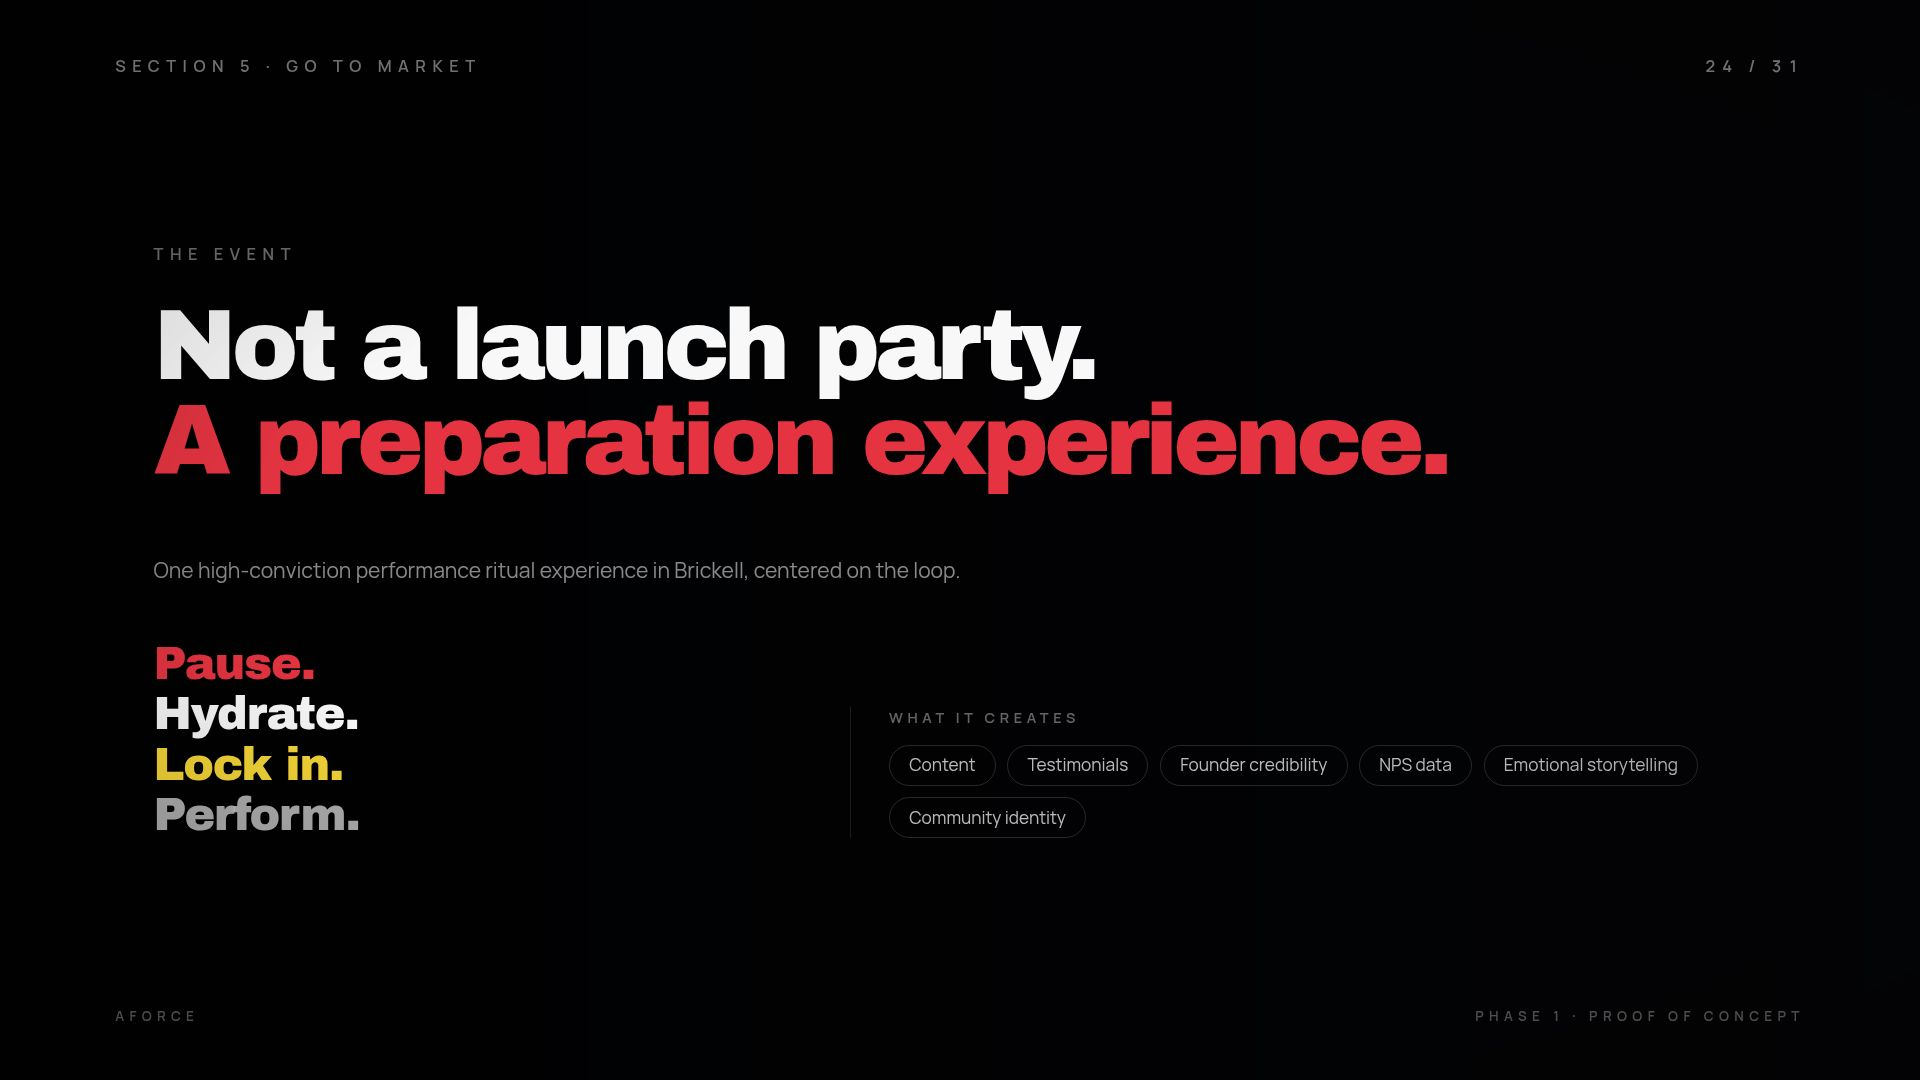
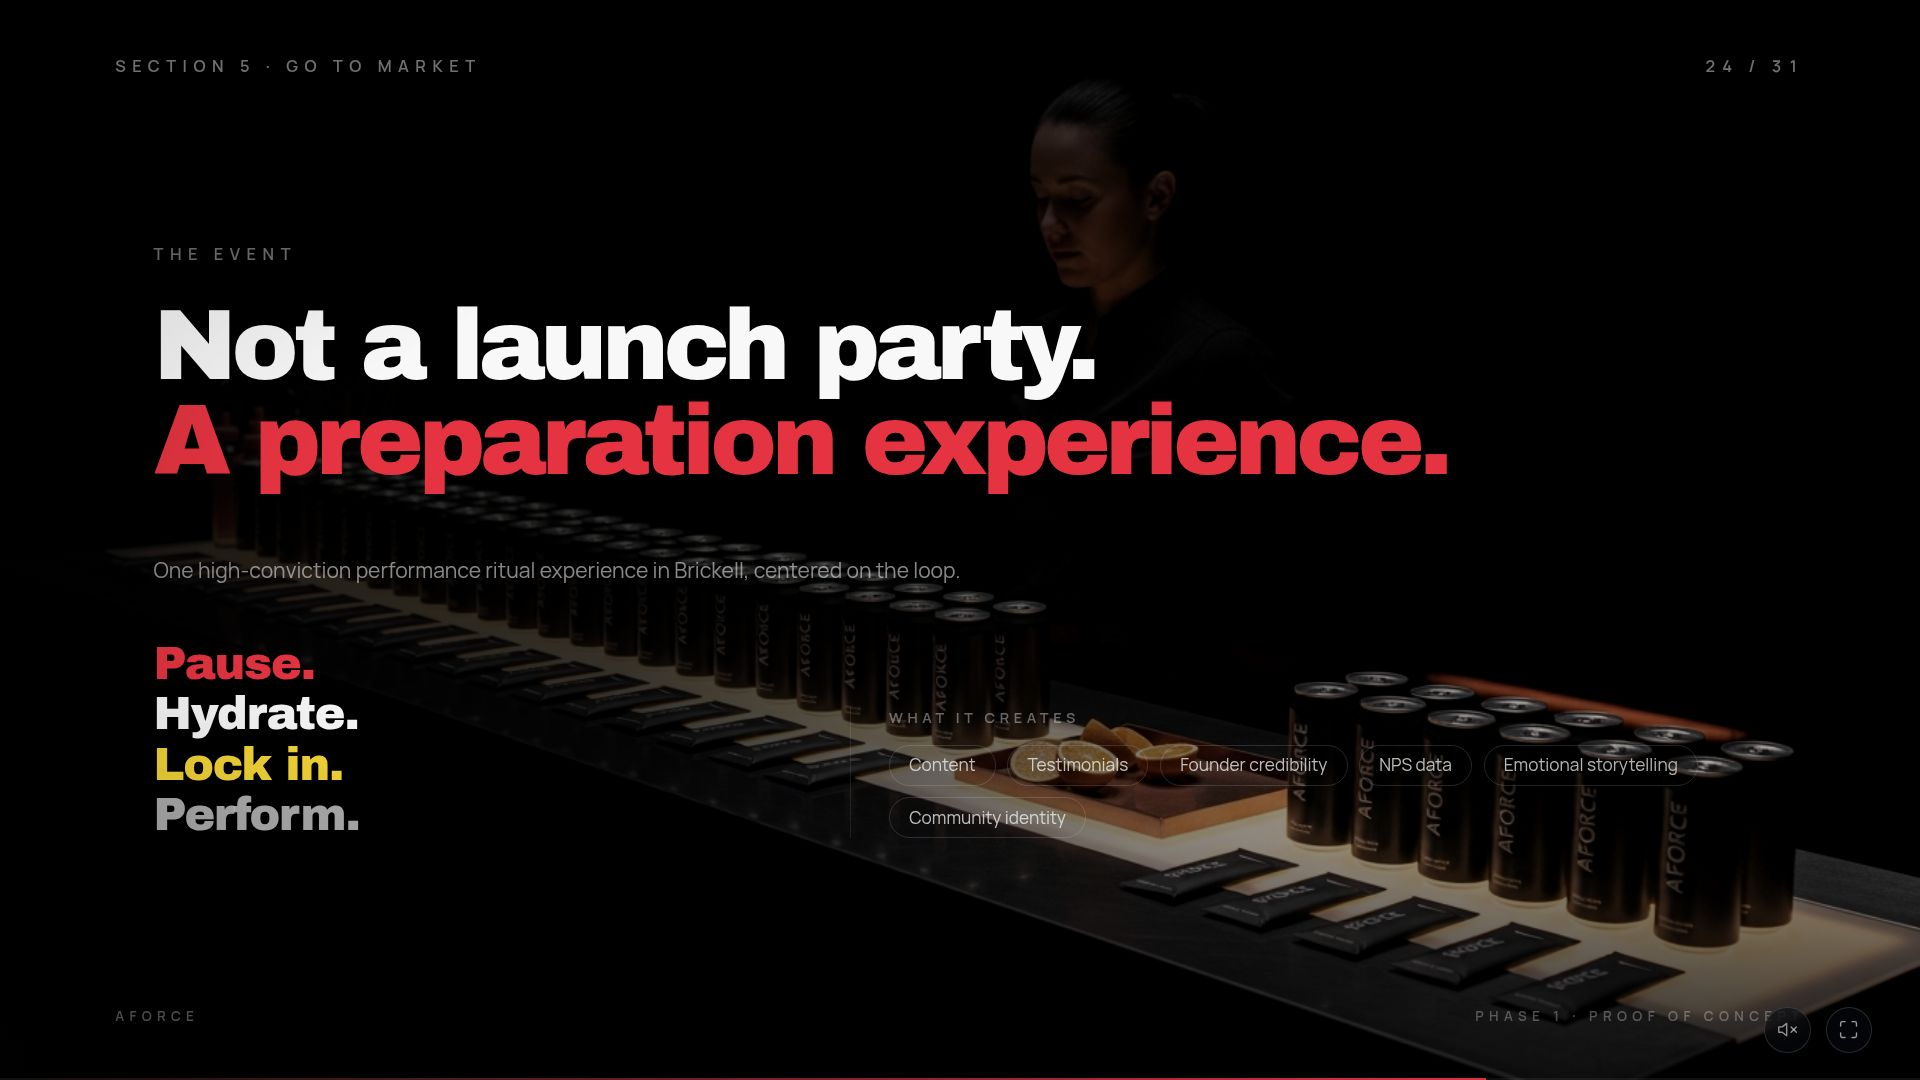
Update the event slide to use a specific hydration image
Replace the video backdrop on the event slide with a static image, specifically `event_02_hydration_station.png`, and adjust styling for optimal presentation.

Replit-Commit-Author: Agent
Replit-Commit-Session-Id: 735f25c4-ed8e-4817-8f79-73dd845c27a6
Replit-Commit-Checkpoint-Type: full_checkpoint
Replit-Commit-Event-Id: 672d0bfe-1dbe-476f-8ea3-62ac5cbdcbf6
Replit-Commit-Screenshot-Url: https://storage.googleapis.com/screenshot-production-us-central1/745ad57f-0f0d-4501-8ad0-cf0ad11b0793/735f25c4-ed8e-4817-8f79-73dd845c27a6/uDi5yu7
Replit-Helium-Checkpoint-Created: true

diff --git a/artifacts/aforce-pitch/src/pages/slides/TheEvent.tsx b/artifacts/aforce-pitch/src/pages/slides/TheEvent.tsx
@@ -1,5 +1,5 @@
 import SlideChrome from "@/components/SlideChrome";
-import VideoBackdrop from "@/components/VideoBackdrop";
+import eventImg from "@assets/generated_images/event_02_hydration_station.png";
 
 const STEPS = [
   { word: "Pause.", color: "text-primary" },
@@ -20,10 +20,28 @@ const CREATES = [
 export default function TheEvent() {
   return (
     <SlideChrome slide={24}>
-      <VideoBackdrop
-        src="video/s24-event.mp4"
-        opacity={0.55}
-        overlay="linear-gradient(to right, rgba(0,0,0,0.88) 0%, rgba(0,0,0,0.72) 50%, rgba(0,0,0,0.55) 100%)"
+      <div className="absolute inset-0 bg-black" />
+      <div
+        className="absolute inset-0 bg-cover bg-center"
+        style={{
+          backgroundImage: `url(${eventImg})`,
+          filter: "grayscale(0.15) contrast(1.04)",
+          opacity: 0.95,
+        }}
+      />
+      <div
+        className="absolute inset-0 pointer-events-none"
+        style={{
+          background:
+            "linear-gradient(90deg, rgba(0,0,0,0.92) 0%, rgba(0,0,0,0.78) 32%, rgba(0,0,0,0.45) 60%, rgba(0,0,0,0.15) 100%)",
+        }}
+      />
+      <div
+        className="absolute inset-0 pointer-events-none"
+        style={{
+          background:
+            "linear-gradient(180deg, rgba(0,0,0,0.4) 0%, rgba(0,0,0,0) 18%, rgba(0,0,0,0) 78%, rgba(0,0,0,0.7) 100%)",
+        }}
       />
       <div className="absolute inset-0 flex flex-col justify-center px-[8vw]">
         <div className="font-body uppercase tracking-[0.4em] text-[0.85vw] text-text/45 font-semibold mb-[3vh]">
